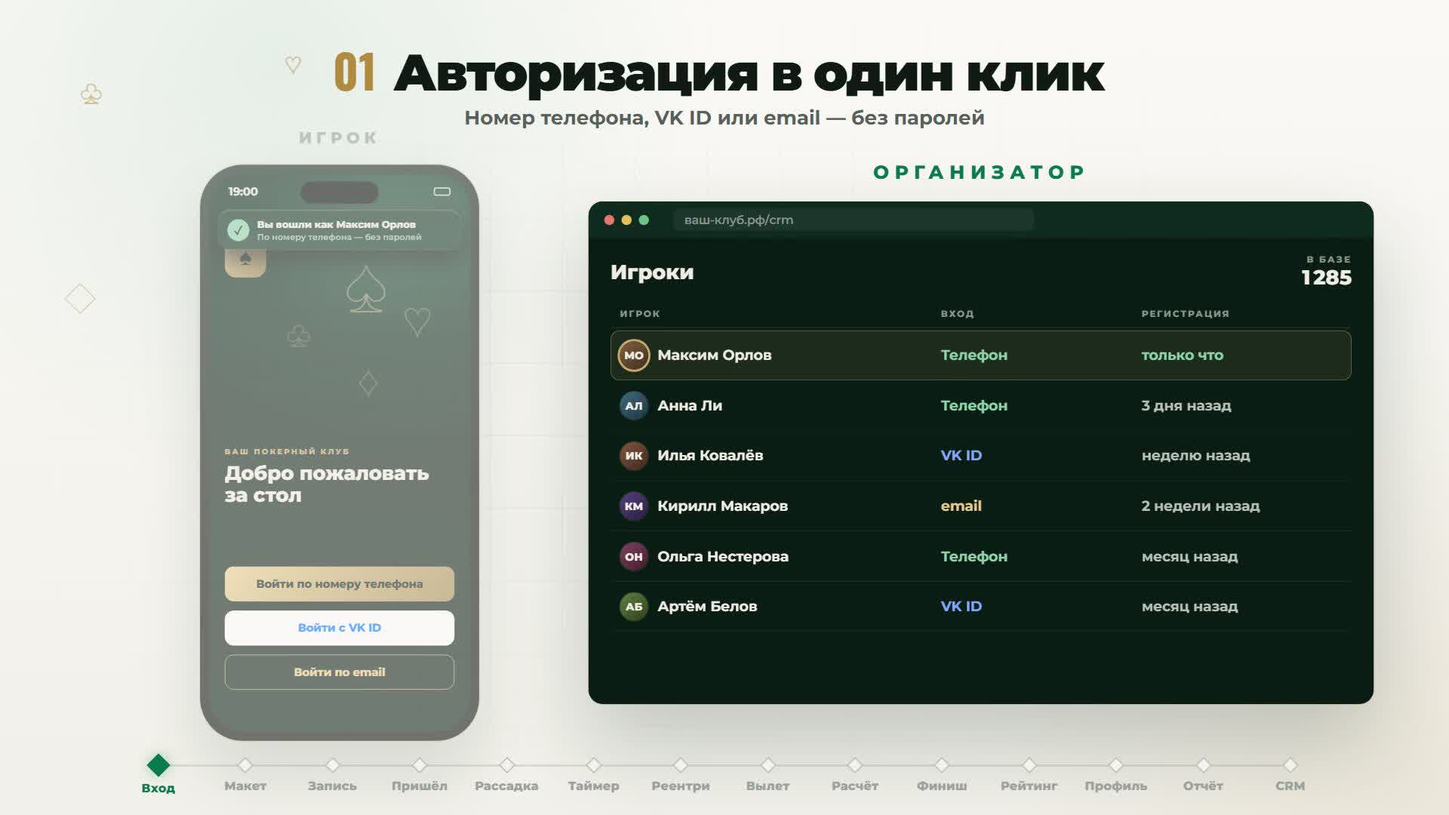
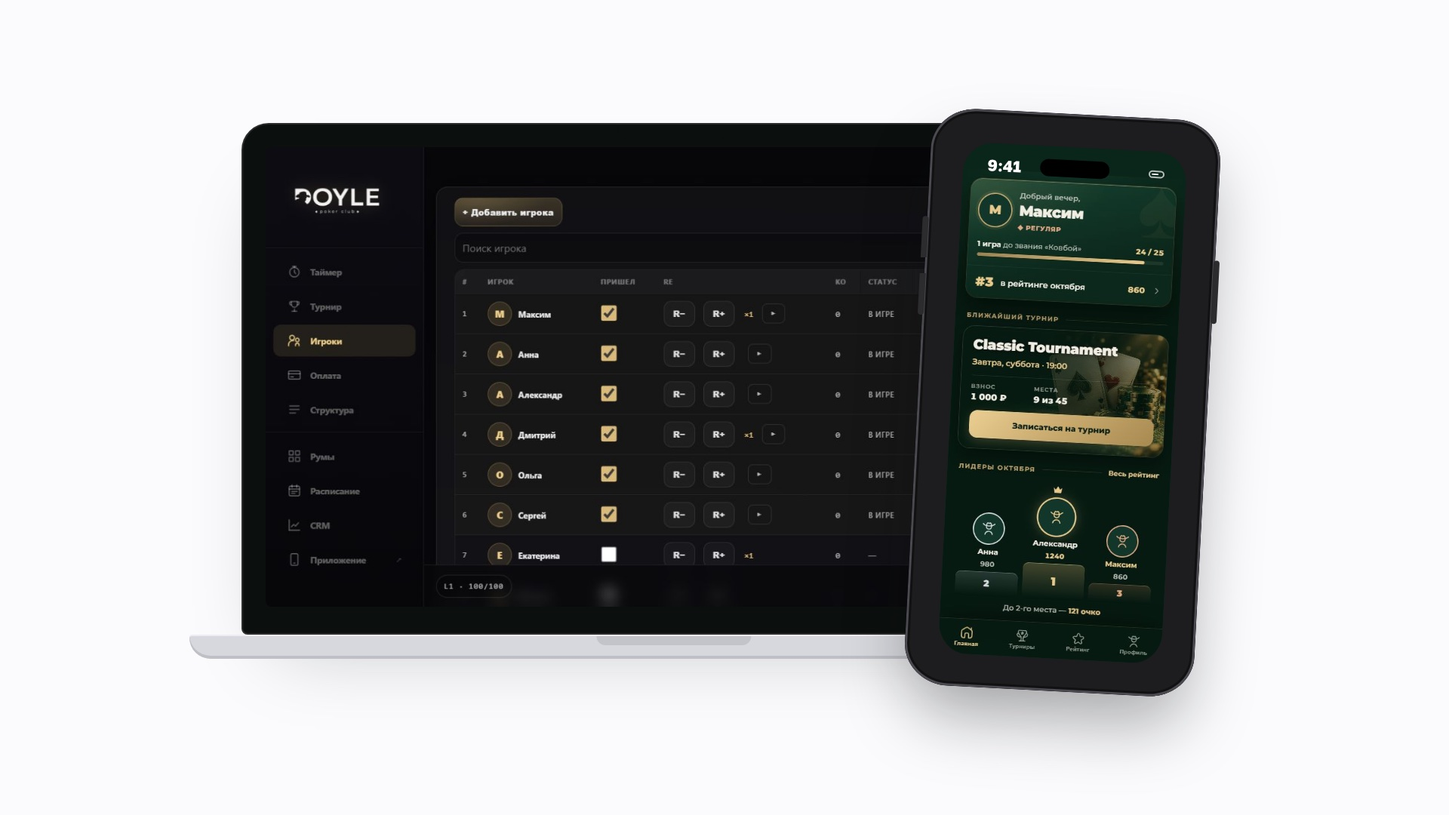
Fonts, mobile role tabs, FAQ, new video poster and link preview
- Golos Text as one variable file + JetBrains Mono for labels (was 11 static weights via @import, mono never loaded); DESIGN.md updated
- on tablet/phone the selected role's screen sits right under its tab
- FAQ: what the club needs to get started
- video poster and og-image rendered from the hero devices on the light page

diff --git a/index.html b/index.html
@@ -6,11 +6,11 @@
 <link rel="canonical" href="https://frimarion.github.io/onetable/">
 <meta property="og:type" content="website"><meta property="og:site_name" content="OneTable"><meta property="og:locale" content="ru_RU">
 <meta property="og:title" content="OneTable — платформа для управления покерным клубом"><meta property="og:description" content="Приложение под брендом вашего клуба и покерная система: таймер, турниры, админ-панель и CRM — в одной платформе."><meta property="og:url" content="https://frimarion.github.io/onetable/">
-<meta property="og:image" content="https://frimarion.github.io/onetable/og-image.jpg"><meta property="og:image:type" content="image/jpeg"><meta property="og:image:width" content="1200"><meta property="og:image:height" content="630"><meta property="og:image:alt" content="OneTable: админ-панель и мобильное приложение игрока покерного клуба">
-<meta name="twitter:card" content="summary_large_image"><meta name="twitter:title" content="OneTable — платформа для управления покерным клубом"><meta name="twitter:description" content="Приложение под брендом вашего клуба и покерная система: таймер, турниры, админ-панель и CRM — в одной платформе."><meta name="twitter:image" content="https://frimarion.github.io/onetable/og-image.jpg">
+<meta property="og:image" content="https://frimarion.github.io/onetable/og-image.jpg?v=2"><meta property="og:image:type" content="image/jpeg"><meta property="og:image:width" content="1200"><meta property="og:image:height" content="630"><meta property="og:image:alt" content="OneTable: админ-панель и мобильное приложение игрока покерного клуба">
+<meta name="twitter:card" content="summary_large_image"><meta name="twitter:title" content="OneTable — платформа для управления покерным клубом"><meta name="twitter:description" content="Приложение под брендом вашего клуба и покерная система: таймер, турниры, админ-панель и CRM — в одной платформе."><meta name="twitter:image" content="https://frimarion.github.io/onetable/og-image.jpg?v=2">
 <title>OneTable — платформа для управления покерным клубом</title>
 <meta name="description" content="Приложение под брендом вашего клуба и покерная система: таймер, турниры, админ-панель и CRM — в одной платформе.">
-<link rel="icon" href="logo.svg" type="image/svg+xml"><link rel="stylesheet" href="site.css?v=17">
+<link rel="icon" href="logo.svg" type="image/svg+xml"><link rel="preconnect" href="https://fonts.googleapis.com"><link rel="preconnect" href="https://fonts.gstatic.com" crossorigin><link rel="stylesheet" href="https://fonts.googleapis.com/css2?family=Golos+Text:wght@400..750&family=JetBrains+Mono:wght@500&display=swap"><link rel="stylesheet" href="site.css?v=21">
 </head>
 <body>
 <svg class="svg-library" xmlns="http://www.w3.org/2000/svg"><symbol id="arrow" viewBox="0 0 24 24"><path d="M5 12h14m-5-5 5 5-5 5"/></symbol><symbol id="check" viewBox="0 0 24 24"><path d="m5 12 4 4L19 6"/></symbol><symbol id="grid" viewBox="0 0 24 24"><rect x="3" y="3" width="7" height="7" rx="2"/><rect x="14" y="3" width="7" height="7" rx="2"/><rect x="3" y="14" width="7" height="7" rx="2"/><rect x="14" y="14" width="7" height="7" rx="2"/></symbol><symbol id="users" viewBox="0 0 24 24"><circle cx="9" cy="8" r="3"/><path d="M3 21v-3a6 6 0 0 1 12 0v3m1-16a3 3 0 0 1 0 6m2 3a5 5 0 0 1 3 5v2"/></symbol><symbol id="chart" viewBox="0 0 24 24"><path d="M4 3v17h17M8 15v-4m5 4V7m5 8V4"/></symbol><symbol id="clock" viewBox="0 0 24 24"><circle cx="12" cy="12" r="9"/><path d="M12 7v5l3 2"/></symbol><symbol id="cup" viewBox="0 0 24 24"><path d="M7 3h10v5a5 5 0 0 1-10 0V3Zm0 2H3v3a4 4 0 0 0 5 4m9-7h4v3a4 4 0 0 1-5 4m-4 1v7m-4 1h8"/></symbol><symbol id="play" viewBox="0 0 24 24"><path d="m9 5 11 7-11 7Z"/></symbol></svg>
@@ -25,11 +25,11 @@
 <figure class="trust-quote is-placeholder"><blockquote><p>«Здесь будет цитата владельца или администратора клуба: что изменилось в работе после перехода на OneTable.»</p></blockquote><figcaption><span class="quote-mark" aria-hidden="true">Д</span><span><b>Имя Фамилия</b><small>Должность, название клуба</small></span></figcaption></figure>
 </div></section>
 <section class="section app-section" id="app"><div class="container app-layout"><div class="app-art"><div class="app-phone iphone" id="brand-phone"><div class="iphone-screen"><span class="iphone-island" aria-hidden="true"></span><span class="iphone-status" aria-hidden="true"><b>9:41</b><i></i></span><button class="screen-zoom" data-screen="doyle-player-home.png" data-title="Приложение Doyle: профиль, турнир и рейтинг" aria-label="Увеличить экран: приложение Doyle"><img src="doyle-player-home.png" alt="Приложение клуба Doyle: профиль игрока, ближайший турнир и рейтинг" width="390" height="844" loading="lazy"></button><span class="brand-tint" aria-hidden="true"></span></div></div><span class="app-caption">Реальный экран приложения Doyle</span></div><div class="app-copy"><div class="eyebrow">01 / ПРИЛОЖЕНИЕ ВАШЕГО КЛУБА</div><h2>Ваше приложение. <br><span class="green">Для ваших игроков.</span></h2><p>От первой записи до следующей победы. Расписание, личный прогресс и жизнь клуба — в приложении с вашим названием и стилем.</p><ul class="check-list"><li>Название, логотип и цвета вашего клуба</li><li>Запись на турнир с телефона</li><li>Профиль, уровни, достижения и рейтинг</li><li>Анонсы и итоги турниров в Telegram</li></ul><div class="brand-picker"><span>Примерьте цвет клуба</span><div role="group" aria-label="Цвет оформления приложения"><button class="swatch selected" style="--swatch:#0B7A55" data-color="" aria-label="Зелёный, как у Doyle" aria-pressed="true"></button><button class="swatch" style="--swatch:#F25A0A" data-color="#F25A0A" aria-label="Оранжевый" aria-pressed="false"></button><button class="swatch" style="--swatch:#2F6BFF" data-color="#2F6BFF" aria-label="Синий" aria-pressed="false"></button><button class="swatch" style="--swatch:#C4231A" data-color="#C4231A" aria-label="Красный" aria-pressed="false"></button></div></div><a class="inline-link" href="#contact" data-contact>Хочу такое для своего клуба <svg><use href="#arrow"/></svg></a></div></div></section><section class="section system-section" id="system"><div class="container"><div class="section-heading"><div><div class="eyebrow">02 / СИСТЕМА ДЛЯ КОМАНДЫ</div><h2>Одна система. <br><span class="muted-heading">У каждого — свои инструменты.</span></h2></div><p>Админ-панель, таймер, CRM и отчёты работают вместе с приложением игроков. Выберите роль — покажем, с чем она работает.</p></div><div class="system-layout"><div class="role-tabs" role="tablist" aria-label="Роли в клубе"><button class="role-tab active" role="tab" id="role-tab-admin" aria-controls="role-panel-admin" aria-selected="true" tabindex="0"><img class="role-tab-persona" src="role-admin.webp" alt="" width="381" height="520" loading="lazy" decoding="async"><span class="role-tab-body"><small>АДМИНИСТРАТОР</small><span class="role-tab-point">Записи и регистрация игроков</span><span class="role-tab-point">Отметка прихода и рассадка по столам</span><span class="role-tab-point">Реентри, вылеты и оплаты в одном месте</span></span></button><button class="role-tab" role="tab" id="role-tab-floor" aria-controls="role-panel-floor" aria-selected="false" tabindex="-1"><img class="role-tab-persona" src="role-floor.webp" alt="" width="381" height="520" loading="lazy" decoding="async"><span class="role-tab-body"><small>ФЛОР</small><span class="role-tab-point">Настраиваемый таймер и структура блайндов</span><span class="role-tab-point">Экран для зала в стиле вашего клуба</span><span class="role-tab-point">Учёт вылетов и реентри по ходу игры</span></span></button><button class="role-tab" role="tab" id="role-tab-owner" aria-controls="role-panel-owner" aria-selected="false" tabindex="-1"><img class="role-tab-persona" src="role-owner.webp" alt="" width="381" height="520" loading="lazy" decoding="async"><span class="role-tab-body"><small>ВЛАДЕЛЕЦ</small><span class="role-tab-point">CRM и база игроков клуба</span><span class="role-tab-point">Результаты турниров и рейтинг</span><span class="role-tab-point">Отчёт по оплатам — в Excel или Google Таблицы</span></span></button></div><div class="role-panels"><div class="role-panel" role="tabpanel" id="role-panel-admin" aria-labelledby="role-tab-admin"><div class="role-stage"><span class="role-kicker">АДМИН-ПАНЕЛЬ · DOYLE</span><button class="screen-zoom role-screen" data-screen="doyle-admin-players.png" data-title="Doyle — панель администратора" aria-label="Увеличить экран: панель администратора"><img src="doyle-admin-players.png" alt="Панель администратора Doyle: список игроков, отметка прихода и реентри" width="1265" height="712" loading="lazy"><span class="zoom-hint">Открыть экран ↗</span></button></div></div><div class="role-panel" role="tabpanel" id="role-panel-floor" aria-labelledby="role-tab-floor" hidden><div class="role-stage"><span class="role-kicker">ЭКРАН ТАЙМЕРА · DOYLE</span><button class="screen-zoom role-screen" data-screen="doyle-display.jpg" data-title="Doyle — экран таймера в зале" aria-label="Увеличить экран: таймер турнира"><img src="doyle-display.jpg" alt="Экран таймера Doyle: уровень, блайнды, время и показатели турнира" width="1100" height="846" loading="lazy"><span class="zoom-hint">Открыть экран ↗</span></button></div></div><div class="role-panel" role="tabpanel" id="role-panel-owner" aria-labelledby="role-tab-owner" hidden><div class="role-stage"><span class="role-kicker">ОТЧЁТ ВЛАДЕЛЬЦА</span><div class="role-screen owner-report" aria-label="Пример отчёта владельца"><div class="owner-head"><b>Обзор клуба</b><span>ИГРОВОЙ ДЕНЬ · ПРИМЕР</span></div><small>Учтено оплат</small><strong>48 000 <span>₽</span></strong><div class="owner-bars" aria-hidden="true"><i style="--h:32%"></i><i style="--h:56%"></i><i style="--h:42%"></i><i style="--h:80%"></i><i style="--h:62%"></i><i style="--h:95%"></i><i style="--h:74%"></i></div><div class="owner-stats"><span><b>36</b> участий</span><span><b>12</b> реентри</span><span><b>48</b> оплат</span></div></div></div></div></div></div></div></section><section class="section workflow" id="workflow"><div class="container"><div class="section-heading"><div><div class="eyebrow">03 / КАК ЭТО РАБОТАЕТ ВМЕСТЕ</div><h2>Один игровой вечер. <br><span class="muted-heading">Без десятка инструментов.</span></h2></div><p>От анонса до итогов — одна система. Данные не нужно переносить между чатами, таблицами и тетрадками.</p></div><div class="day-timeline" aria-label="Пример игрового вечера в OneTable"><div class="tl-head"><span><span class="status-dot"></span> ПЯТНИЦА · FRIDAY DEEP STACK</span><span>ПРИМЕР ВЕЧЕРА</span></div><ol class="tl-list"><li><time>12:00</time><b>Анонс ушёл в Telegram</b><span>Турнир опубликован из макета. Игроки видят его в приложении клуба.</span></li><li><time>15:40</time><b>Запись идёт сама</b><span>24 игрока записались с телефона — без звонков и переписки.</span></li><li><time>18:45</time><b>Гости на месте</b><span>Администратор отмечает пришедших и рассаживает их по столам.</span></li><li class="is-live"><time>19:00</time><b>Таймер запущен</b><span>Уровни и блайнды на экране зала. Реентри и вылеты учитываются по ходу игры.</span></li><li><time>00:20</time><b>Итоги без ручного подсчёта</b><span>Результаты попали в рейтинг и канал клуба, отчёт по оплатам — в таблицу.</span></li></ol></div></div></section>
-<section class="video-section"><div class="container"><div class="video-heading"><div><div class="eyebrow">ПОСМОТРЕТЬ В ДЕЛЕ</div><h2>Весь клуб. <br>За полторы минуты.</h2></div><p>Реальный сценарий работы платформы: <br>от создания турнира до отчёта.</p></div><button class="video-preview" data-video aria-label="Смотреть видеопрезентацию OneTable"><img src="demo-poster.jpg" alt="Кадр видеопрезентации: приложение игрока и панель организатора" loading="lazy"><span class="video-shade"></span><span class="video-play"><svg><use href="#play"/></svg></span><span class="video-bottom"><b>Познакомьтесь с OneTable</b><span>01:30 <span>↗</span></span></span></button></div></section>
-<section class="faq-section"><div class="container faq-grid"><div><div class="eyebrow">ОСТАЛОСЬ УТОЧНИТЬ</div><h2>Хорошие <br>вопросы.</h2></div><div class="faq-list"><details><summary>Что входит в покерную систему?<span>+</span></summary><p>Админ-панель, CRM, настраиваемый таймер, инструменты для турниров и рассадки, учёт участий и оплат, рейтинги и отчёты. Система связана с приложением для игроков, которое оформляем под ваш клуб.</p></details><details><summary>Это покер-рум для игры онлайн?<span>+</span></summary><p>OneTable — платформа для организации работы очного покерного клуба. В неё входят приложение для игроков под брендом клуба, настраиваемый таймер, админ-панель, CRM, управление турнирами и учёт.</p></details><details><summary>Можно использовать название и стиль моего клуба?<span>+</span></summary><p>Да. Создаём приложение с названием, логотипом и цветами вашего клуба. Оформление таймера также можно кастомизировать под фирменный стиль.</p></details><details><summary>Как платформа работает с Telegram?<span>+</span></summary><p>Бот публикует анонсы и итоги турниров в канале клуба. Игроки получают доступ к расписанию и записи через приложение.</p></details><details><summary>Можно выгрузить отчёты?<span>+</span></summary><p>Отчёт по оплатам можно выгрузить для дальнейшей работы в Excel или Google Таблицах.</p></details><details><summary>С чего начать и сколько это стоит?<span>+</span></summary><p>Начнём с демонстрации и обсуждения ваших процессов: формата турниров, работы администратора и приложения игроков. Состав решения и стоимость обсудим после знакомства с вашим клубом.</p></details></div></div></section>
+<section class="video-section"><div class="container"><div class="video-heading"><div><div class="eyebrow">ПОСМОТРЕТЬ В ДЕЛЕ</div><h2>Весь клуб. <br>За полторы минуты.</h2></div><p>Реальный сценарий работы платформы: <br>от создания турнира до отчёта.</p></div><button class="video-preview" data-video aria-label="Смотреть видеопрезентацию OneTable"><img src="demo-poster.jpg?v=2" alt="Кадр видеопрезентации: приложение игрока и панель организатора" loading="lazy"><span class="video-shade"></span><span class="video-play"><svg><use href="#play"/></svg></span><span class="video-bottom"><b>Познакомьтесь с OneTable</b><span>01:30 <span>↗</span></span></span></button></div></section>
+<section class="faq-section"><div class="container faq-grid"><div><div class="eyebrow">ОСТАЛОСЬ УТОЧНИТЬ</div><h2>Хорошие <br>вопросы.</h2></div><div class="faq-list"><details><summary>Что входит в покерную систему?<span>+</span></summary><p>Админ-панель, CRM, настраиваемый таймер, инструменты для турниров и рассадки, учёт участий и оплат, рейтинги и отчёты. Система связана с приложением для игроков, которое оформляем под ваш клуб.</p></details><details><summary>Это покер-рум для игры онлайн?<span>+</span></summary><p>OneTable — платформа для организации работы очного покерного клуба. В неё входят приложение для игроков под брендом клуба, настраиваемый таймер, админ-панель, CRM, управление турнирами и учёт.</p></details><details><summary>Можно использовать название и стиль моего клуба?<span>+</span></summary><p>Да. Создаём приложение с названием, логотипом и цветами вашего клуба. Оформление таймера также можно кастомизировать под фирменный стиль.</p></details><details><summary>Как платформа работает с Telegram?<span>+</span></summary><p>Бот публикует анонсы и итоги турниров в канале клуба. Игроки получают доступ к расписанию и записи через приложение.</p></details><details><summary>Можно выгрузить отчёты?<span>+</span></summary><p>Отчёт по оплатам можно выгрузить для дальнейшей работы в Excel или Google Таблицах.</p></details><details><summary>Что нужно от клуба, чтобы начать?<span>+</span></summary><p>Для приложения — название, логотип и цвета клуба. Для системы — ваш формат турниров: структура блайндов, взносы и правила реентри. Остальное настроим вместе при подключении.</p></details><details><summary>С чего начать и сколько это стоит?<span>+</span></summary><p>Начнём с демонстрации и обсуждения ваших процессов: формата турниров, работы администратора и приложения игроков. Состав решения и стоимость обсудим после знакомства с вашим клубом.</p></details></div></div></section>
 <section class="contact-section" id="contact"><div class="container"><div class="contact-inner"><div class="eyebrow"><span class="status-dot"></span> СЛЕДУЮЩИЙ ХОД — ЗА ВАМИ</div><h2>Давайте соберём <br>ваш клуб в <span>OneTable.</span></h2><p>Обсудим приложение под ваш бренд <br>и систему для всей команды клуба.</p><button class="button button-green" id="contact-open">Обсудить подключение <svg><use href="#arrow"/></svg></button><span class="contact-subline">Начнём с ваших задач.</span></div></div></section>
 </main><footer><div class="container footer-inner"><a class="brand" href="#"><img src="logo.svg" width="40" height="27" alt=""><span>One<span class="green">Table</span></span></a><span>Меньше рутины. Больше игры.</span><span>© <span id="year">2026</span> OneTable</span><a href="#">Наверх ↑</a></div></footer>
-<dialog id="video-dialog" aria-label="Видеопрезентация OneTable"><button class="dialog-close" aria-label="Закрыть видео">×</button><video controls playsinline preload="none" poster="demo-poster.jpg"><source src="onetable-demo.mp4" type="video/mp4"></video></dialog>
+<dialog id="video-dialog" aria-label="Видеопрезентация OneTable"><button class="dialog-close" aria-label="Закрыть видео">×</button><video controls playsinline preload="none" poster="demo-poster.jpg?v=2"><source src="onetable-demo.mp4" type="video/mp4"></video></dialog>
 <dialog id="contact-dialog" aria-labelledby="contact-title"><button class="dialog-close" aria-label="Закрыть окно">×</button><div class="eyebrow">ЗНАКОМСТВО С ONETABLE</div><h2 id="contact-title">Расскажите <br>о вашем клубе.</h2><p>Оставьте контакт — мы свяжемся, покажем систему и обсудим приложение под ваш бренд.</p>
 <form id="contact-form" class="contact-form" novalidate><label><span>Название клуба</span><input name="club" type="text" autocomplete="organization" required placeholder="Например, Doyle Poker"></label><label><span>Город</span><input name="city" type="text" autocomplete="address-level2" placeholder="Где находится клуб"></label><label><span>Как с вами связаться</span><input name="contact" type="text" autocomplete="off" required placeholder="Telegram @username или телефон"></label><label><span>Что хотите обсудить <i>(необязательно)</i></span><textarea name="message" rows="3" placeholder="Формат турниров, число игроков, пожелания"></textarea></label><label class="hp" aria-hidden="true">Не заполняйте<input name="website" type="text" tabindex="-1" autocomplete="off"></label><button class="button button-green" type="submit"><span class="submit-label">Отправить заявку</span> <svg><use href="#arrow"/></svg></button><p class="form-status" id="form-status" role="status" aria-live="polite"></p></form>
 <div class="form-done" id="form-done" hidden><span class="notice-icon">✓</span><h3>Заявка отправлена</h3><p>Спасибо! Мы свяжемся с вами по указанному контакту.</p><button class="button button-green" type="button" data-close-dialog>Закрыть</button></div>

diff --git a/site.css b/site.css
@@ -1,7 +1,6 @@
 /* OneTable — единая таблица стилей. Порядок блоков = каскад (позже побеждает). Новые правки — в конец, по DESIGN.md. */
 /* ── база: сетка, шапка, секции ── */
-@import url('https://fonts.googleapis.com/css2?family=Golos+Text:wght@400;450;500;550;600;650;700;750;800;850;900&display=swap');
-:root{--soft:#f5f8f6;--font:'Golos Text',Arial,sans-serif}
+:root{--soft:#f5f8f6;--font:'Golos Text',Arial,sans-serif;--mono:'JetBrains Mono',ui-monospace,SFMono-Regular,Menlo,monospace}
 *{box-sizing:border-box}
 html{scroll-behavior:smooth}
 body{margin:0;background:#fff;font-family:var(--font);-webkit-font-smoothing:antialiased}
@@ -520,7 +519,7 @@ footer{border-top-color:var(--dark-line)}
 :root{--ink:#1D1D1F;--ink-2:#6E6E73;--line:#E5E5EA;--page:#FBFBFD;--surface:#FFFFFF;--surface-soft:#F5F5F7;--accent:#0B7A55;--accent-hover:#09694A;--green:var(--accent);--dark:#0B0F0D;--dark-card:#131A16;--dark-line:#1C2420;--dark-ink:#F2F5F3;--dark-ink-2:#9BA8A1;--glow:#2BD98A;--radius-island:32px;--radius-card:16px}
 /* Игровой вечер: лента по времени на тёмном острове (не повторяет карточки ролей) */
 .day-timeline{margin-top:48px;background:var(--dark);color:var(--dark-ink);border-radius:var(--radius-island);padding:30px 34px 34px;box-shadow:0 30px 70px -20px #0b0f0d47}
-.tl-head{display:flex;justify-content:space-between;gap:16px;flex-wrap:wrap;font:500 13px/1.4 "JetBrains Mono",ui-monospace,SFMono-Regular,Menlo,monospace;letter-spacing:.1em;color:var(--dark-ink-2);padding-bottom:20px;border-bottom:1px solid var(--dark-line)}
+.tl-head{display:flex;justify-content:space-between;gap:16px;flex-wrap:wrap;font:500 13px/1.4 var(--mono);letter-spacing:.1em;color:var(--dark-ink-2);padding-bottom:20px;border-bottom:1px solid var(--dark-line)}
 .tl-head .status-dot{display:inline-block;width:8px;height:8px;border-radius:50%;background:var(--glow);margin-right:8px;vertical-align:1px}
 .tl-list{list-style:none;margin:0;padding:0;display:grid;grid-template-columns:repeat(5,minmax(0,1fr));gap:16px;counter-reset:none}
 .tl-list li{position:relative;display:flex;flex-direction:column;gap:8px;padding-top:44px}
@@ -569,7 +568,7 @@ footer .brand .green{color:var(--accent)}
 .contact-inner{padding:56px 22px;border-radius:24px}
 }
 /* Превью бренда: акценты следуют цвету клуба, без «казино-золота» */
-.video-preview>img{object-position:50% 80%}
+
 /* Герой: MacBook с панелью игроков + телефон с приложением, прямо на светлой странице */
 .hero-devices{position:relative;align-self:center;width:100%;max-width:640px;margin-left:auto;padding:0 6% 28px 0}
 .mac{position:relative}
@@ -625,18 +624,18 @@ footer .brand .green{color:var(--accent)}
 .role-tab{display:flex;width:100%;text-align:left;background:var(--surface);border:1px solid var(--line);border-radius:var(--radius-card);color:var(--ink);font:inherit;cursor:pointer;transition:border-color .2s,background-color .2s}
 .role-tab:hover{border-color:#c9c9cf}
 .role-tab.active{background:var(--dark);border-color:var(--dark);color:var(--dark-ink)}
-.role-tab small{display:block;font:500 13px/1.3 "JetBrains Mono",ui-monospace,SFMono-Regular,Menlo,monospace;letter-spacing:.1em;color:var(--ink-2);margin-bottom:4px}
+.role-tab small{display:block;font:500 13px/1.3 var(--mono);letter-spacing:.1em;color:var(--ink-2);margin-bottom:4px}
 .role-tab.active small{color:var(--dark-ink-2)}
 .role-tab b{font-size:18px;font-weight:600;line-height:1.3}
 .role-tab:focus-visible{outline:2px solid var(--accent);outline-offset:2px}
 .role-stage{position:relative;background:var(--dark);border-radius:var(--radius-island);box-shadow:0 30px 70px -20px #0b0f0d47}
-.role-kicker{position:absolute;left:34px;top:22px;font:500 13px/1.3 "JetBrains Mono",ui-monospace,SFMono-Regular,Menlo,monospace;letter-spacing:.1em;color:var(--dark-ink-2)}
+.role-kicker{position:absolute;left:34px;top:22px;font:500 13px/1.3 var(--mono);letter-spacing:.1em;color:var(--dark-ink-2)}
 .role-screen{display:block;aspect-ratio:16/10;border-radius:12px;overflow:hidden;background:#08080c;border:1px solid var(--dark-line)}
 .role-screen img{width:100%;height:100%;object-fit:contain;object-position:center}
 .owner-report{display:flex;flex-direction:column;padding:22px 24px;background:var(--dark-card);color:var(--dark-ink)}
 .owner-head{display:flex;justify-content:space-between;align-items:baseline;gap:12px;margin-bottom:auto}
 .owner-head b{font-size:17px;font-weight:600}
-.owner-head span{font:500 12px/1.3 "JetBrains Mono",ui-monospace,monospace;letter-spacing:.1em;color:var(--dark-ink-2)}
+.owner-head span{font:500 12px/1.3 var(--mono);letter-spacing:.1em;color:var(--dark-ink-2)}
 .owner-report small{font-size:14px;color:var(--dark-ink-2);margin-top:14px}
 .owner-report strong{font-size:44px;font-weight:600;letter-spacing:-.03em;font-variant-numeric:tabular-nums;line-height:1.1}
 .owner-report strong span{font-size:26px;font-weight:500;color:var(--dark-ink-2)}
@@ -692,4 +691,11 @@ footer .brand .green{color:var(--accent)}
 .role-tab-persona{width:60px}
 .role-tab-body{padding-bottom:14px}
 .role-tab-point{font-size:14px}
+}
+/* На узких экранах экран роли идёт сразу под своей вкладкой */
+@media(max-width:1099px){
+.system-layout{display:flex;flex-direction:column;align-items:stretch;gap:12px}
+.role-tabs,.role-panels{display:contents}
+#role-tab-admin{order:1}#role-panel-admin{order:2}#role-tab-floor{order:3}#role-panel-floor{order:4}#role-tab-owner{order:5}#role-panel-owner{order:6}
+.role-panel{margin:0 0 8px}
 }

diff --git a/DESIGN.md b/DESIGN.md
@@ -31,8 +31,8 @@
 Запрещено: градиентные заливки, неоновое свечение вокруг блоков, второй акцентный цвет на самой странице.
 
 ## Типографика
-- Основной: Inter 400/500/600/700. Заголовки 600, межбуквенный −0,04em.
-- Цифры (таймер, блайнды): Inter 600 с `tabular-nums`; подписи-метки: JetBrains Mono 500, 13–14px, верхний регистр, +0,1em.
+- Основной: Golos Text (вариативный, 400–750; хорошо держит кириллицу — выбран вместо Inter 23.10.2026). Заголовки 600, межбуквенный −0,04em.
+- Цифры (таймер, блайнды): Golos Text 600 с `tabular-nums`; подписи-метки: JetBrains Mono 500, 13–14px, верхний регистр, +0,1em.
 - Шкала: H1 76px/1,03; таймер 136px; лид 20px/1,45; текст 16px; подпись 13–14px (на тёмном не меньше 14px).
 - Заголовки: `text-wrap: balance`; в числах неразрывные пробелы («400 / 800», «1 000»).
 
